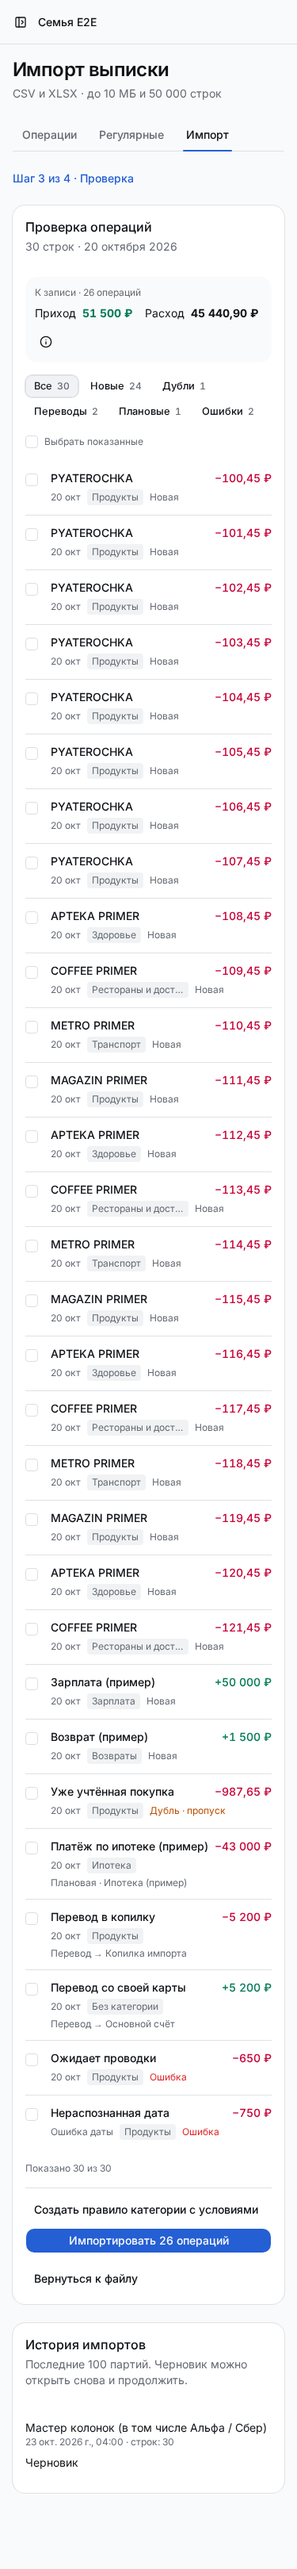
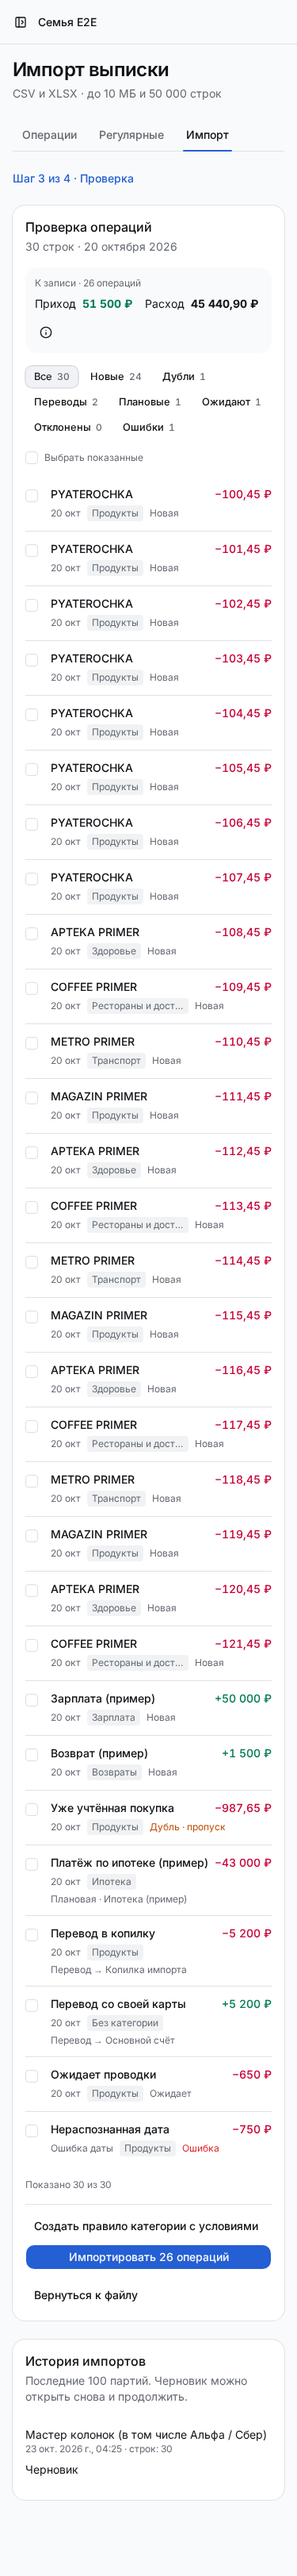
docs: finalize beta.2 statement import showcase

diff --git a/docs/import.md b/docs/import.md
@@ -10,7 +10,7 @@
 4. Укажите формат даты: ISO, DD.MM.YYYY / DD/MM/YYYY или MM/DD/YYYY. Двухзначные годы не поддерживаются: предварительно приведите их к четырёхзначному виду. Типизированные даты Excel читаются с учётом системы 1900/1904; произвольное число не превращается в дату автоматически. Дата проводки при наличии имеет приоритет; обе исходные даты сохраняются.
 5. Сопоставьте каждый счёт из файла со своим счётом. Для строк без названия выберите общий счёт. Последние цифры карты — только подсказка, новые счета не создаются. Валюта движения должна совпадать с валютой счёта; исходная валютная покупка — метаданные, автоматической конвертации нет. Начальный остаток счёта должен относиться к началу импортируемой истории, иначе текущий баланс удвоится.
 6. При необходимости сохраните настройки чтения и колонок новым профилем семьи. В следующий раз выберите его до чтения файла, затем в списке профилей. Привязка счетов проверяется заново. Если в колонке более 100 уникальных значений, мастер показывает первые 100; остальные несопоставленные счета останутся ошибками в предпросмотре.
-7. Проверьте предпросмотр. Есть фильтры **Новые / Дубли / Переводы / Плановые / Ошибки**, массовый пропуск, создание и назначение категории; отображаются по 50 строк, на телефоне — карточки. Общие приходы/расходы показывают движения файла до решений, включая обе стороны переводов и дубли. Это не итог аналитики семьи.
+7. Проверьте предпросмотр. Есть фильтры **Новые / Дубли / Переводы / Плановые / Ожидают / Отклонены / Ошибки**, массовый пропуск, создание и назначение категории; сначала отображаются 100 строк, следующие добавляются кнопкой «Показать ещё 100», на телефоне — карточки. Общие приходы/расходы показывают движения файла до решений, включая обе стороны переводов и дубли. Это не итог аналитики семьи.
 8. Выберите решение для спорных строк. По умолчанию совпадения с ручными операциями (та же сумма на том же счёте в окне ±2 дня) пропускаются. Можно связать их с операцией без создания. Точный повтор файла даёт предупреждение, а перекрывающиеся выгрузки сверяются по мультимножеству fingerprints: две одинаковые покупки законны. Совпадение без стабильного ID можно явно признать отдельной покупкой. Стабильный банковский ID повторно создать нельзя; указывайте в этой колонке только действительно стабильный ID, а не авторизационный код или номер строки.
 9. Для подтверждения плановой операции выберите её кандидат: фактические дата/сумма берутся из выписки. Окно дат (по умолчанию ±3 дня) и допуск суммы настраиваются до предпросмотра; допуск хранится в минорных единицах валюты строки. При нескольких кандидатах строка по умолчанию пропускается до ручного выбора. Плановые переводы сопоставляются в одной валюте: две встречные строки подтверждают одну плановую операцию, с датой списания; при отмене восстанавливается исходный план. Односторонняя выписка тоже может подтвердить такой перевод, а следующая сторона предлагается как уже существующая. Используются уже материализованные плановые операции; дальние виртуальные начисления нужно сначала открыть/материализовать в приложении.
 10. Для своего перевода выберите **Свой перевод** у обеих встречных строк и проверьте их взаимное сопоставление. Противоположные суммы в одной валюте на разных собственных счетах в окне ±2 дня — только кандидат. Будет создана одна операция `transfer`. Если встречная сторона уже есть в базе, её можно явно преобразовать в перевод или связать с уже существующим переводом. Комиссия остаётся отдельным расходом. По одному слову «СБП» перевод своим не считается. Автоматическое сведение валютных сторон банковской выписки не выполняется; явные переводы из экспорта BestBudget сохраняют обе валютные суммы.
@@ -18,7 +18,7 @@
 12. При наличии двух и более последовательных остатков по счёту они сверяются с движениями между ними. Первый остаток — точка отсчёта, а не подтверждение начального баланса. Несходящаяся сверка требует отдельного подтверждения. Остатки без дат/семантики «после операции» нельзя назначать этой колонке. Неупорядоченные движения одного дня могут потребовать ручной проверки. Отсутствие контроля отображается явно.
 13. Нажмите **Подтвердить импорт → Записать операции**. Вся партия записывается атомарно: ошибка не оставляет частично созданных операций. Повтор подтверждения той же партии возвращает уже записанный результат. Если другая партия была записана после предпросмотра, новые совпадения блокируют запись до проверки. При потере соединения откройте партию в истории и проверьте статус.
 
-Банковские строки `pending`, `rejected` и неизвестного статуса остаются в предпросмотре только для пропуска. Собственный экспорт BestBudget — отдельный доверенный контракт: его планы и пропущенные операции восстанавливаются в исходном статусе, без записи в факт; само расписание CSV не содержит, его нужно создать отдельно. В неизвестном профиле отсутствие статуса требует явного выбора «считать строки без статуса завершёнными». Возврат не определяется автоматически только по знаку: категорию дохода выберите сами. Строки с ошибками нужно исправить в файле/настройках и создать новый предпросмотр либо пропустить. Черновики хранят нормализованные строки, но несохранённые изменения решений в браузере при обновлении страницы сбрасываются.
+Банковские холды `pending` показываются серым статусом «Ожидает» с подсказкой «Операция ещё не проведена банком — импортируйте позже»; отклонённые `rejected` — нейтральным статусом «Отклонена». Они остаются только для пропуска и не записываются в факт. Неизвестный статус или неразобранная дата/сумма остаются ошибкой; некорректный холд также требует исправления. Собственный экспорт BestBudget — отдельный доверенный контракт: его планы и пропущенные операции восстанавливаются в исходном статусе, без записи в факт; само расписание CSV не содержит, его нужно создать отдельно. В неизвестном профиле отсутствие статуса требует явного выбора «считать строки без статуса завершёнными». Возврат не определяется автоматически только по знаку: категорию дохода выберите сами. Строки с ошибками нужно исправить в файле/настройках и создать новый предпросмотр либо пропустить. Черновики хранят нормализованные строки, но несохранённые изменения решений в браузере при обновлении страницы сбрасываются.
 
 ## Отмена
 

diff --git a/docs/screenshots/import/README.md b/docs/screenshots/import/README.md
@@ -3,13 +3,13 @@
 Скриншоты из `e2e/imports.spec.ts`, Chromium на production standalone-сборке:
 
 - `import-preview-375.png` — 30 строк карточками, компактный степпер, редактирование через sheet, кнопки без перекрытия FAB; проверяется `document.documentElement.scrollWidth <= innerWidth`.
-- `import-preview-desktop.png` — те же 30 строк в таблице: 24 новые, один дубль, две стороны перевода, одна плановая и две ошибки. Итоги исключают выбранный перевод и пропуски.
-- `import-duplicates-desktop.png` — повтор CSV: 28 дублей / уже учтённых строк, две ошибки, к записи ноль операций.
+- `import-preview-desktop.png` — те же 30 строк в таблице: 24 новые, один дубль, две стороны перевода, одна плановая, один ожидающий проводки холд и одна ошибка. Итоги исключают выбранный перевод и пропуски.
+- `import-duplicates-desktop.png` — повтор CSV: 28 дублей / уже учтённых строк, один холд и одна ошибка, к записи ноль операций.
 
 Данные полностью синтетические: `owner@e2e.test`, PYATEROCHKA и вымышленные покупки/счета/платежи. Кандидаты готовятся только в изолированной базе Playwright на 54330; настоящий `DATABASE_URL` из окружения не используется. Это проверка UI и собственного формата, не приёмка реальной банковской выгрузки.
 
-Браузерный сценарий проходит мастер колонок, фильтры, выбор строк, массовую смену категории/решения, предложение применить категорию к восьми похожим покупкам, диалог правила, мобильный sheet, commit → повтор/дубли → undo. Дополнительные сценарии проверяют XLSX/Origin и показ 205 строк порциями по 100, без изменения категории невыбранных строк. Категория подтверждаемой плановой берётся из существующей операции, даже если банковская подсказка отличается.
+Браузерный сценарий проходит мастер колонок, фильтры, выбор строк, массовую смену категории/решения, предложение применить категорию к восьми похожим покупкам, диалог правила, мобильный sheet, commit → повтор/дубли → undo. Дополнительные сценарии проверяют XLSX/Origin и показ 205 строк порциями по 100, без изменения категории невыбранных строк. Холд показан серым статусом «Ожидает», с пояснением в desktop tooltip и мобильном sheet. Проверяется решение «пропустить» по умолчанию и отсутствие проводки после импорта; некорректная дата остаётся ошибкой даже у холда. Старый черновик с прежним общим предупреждением получает актуальное пояснение. Категория подтверждаемой плановой берётся из существующей операции, даже если банковская подсказка отличается.
 
 Воспроизведение: `npx -y pnpm@10.27.0 test:e2e`; изображения появляются в `work/import-*.png`. Порты 3200/54330 должны быть свободны. Для собственного кеша браузера задайте `PLAYWRIGHT_BROWSERS_PATH` в дисковой временной директории и предварительно выполните `pnpm exec playwright install chromium`.
 
-Локальная проверка 23.10.2026 после rebase на `bc5b2d0` (напоминания + цели + кредиты): `typecheck`, `lint`, `build`, `drizzle-kit check` — успешно; Vitest — 271 тест в 31 файле; Playwright — 15 тестов. Миграция импорта — `0007_statement_import`; миграции main сохранены без изменений. Интеграционные тесты проверяют исключение полного кредитного платежа/его частей и старого черновика, а также однократный учёт перевода в прогрессе цели и его отмену.
+Снимки обновлены 23.10.2026 после rebase релизной ветки на `1de0669` (импорт #8). `typecheck`, `lint`, `build` — успешно; Vitest — 274 теста в 32 файлах; Playwright — 15 тестов. Миграция импорта — `0007_statement_import`; миграции main сохранены без изменений. Интеграционные тесты проверяют исключение полного кредитного платежа/его частей и старого черновика, а также однократный учёт перевода в прогрессе цели и его отмену.

diff --git a/README.md b/README.md
@@ -8,7 +8,7 @@ Self-hosted family finance: planned vs actual spending, recurring payments and c
 [![Release](https://img.shields.io/github/v/release/mambastick/bestbudget?include_prereleases)](https://github.com/mambastick/bestbudget/releases)
 [![License: MIT](https://img.shields.io/badge/License-MIT-blue.svg)](LICENSE)
 
-**Current release target: 1.0.0-beta.2.** The interface is currently in Russian. Detailed docs are currently in Russian.
+**1.0.0-beta.2 (beta).** The interface is currently in Russian. Detailed docs are currently in Russian.
 
 ## Screenshots
 
@@ -39,7 +39,7 @@ Synthetic demo data, light theme. No bank credentials or real family finances.
 - **Multiple currencies:** accounts and transfers with separate debit/credit amounts; household base-currency reports; cached Bank of Russia rates or manual rates for offline installations.
 - **Loans:** mortgages and consumer loans, annuity/differentiated schedules, principal/interest split, prepayments, rate changes, debt reconciliation and credit-card limits.
 - **Savings goals:** account allocations, manual contributions, emergency fund based on spending history, progress forecasts and recurring planned top-ups.
-- **Statement import (pending [PR #8](https://github.com/mambastick/bestbudget/pull/8)):** CSV/XLSX mapping, preview, duplicate checks and batch undo. Bank-specific formats are experimental; PDF is out of scope. See the [import guide on its branch](https://github.com/mambastick/bestbudget/blob/codex/import/docs/import.md).
+- **Statement import:** CSV/XLSX column mapping, preview, duplicate checks, own transfers, planned-payment confirmation, category rules and batch undo. [Import guide](docs/import.md).
 - **Reminders:** opt-in Telegram and Web Push for payments, overdue items, cash gaps and budget overruns; quiet hours and daily digests. [Notifications](docs/notifications.md).
 - **Family and access:** multiple households, one-time invitations, owner/admin/member roles, password login and generic OIDC SSO. System admins manage the installation without access to other households' finances.
 - **Operations:** scheduled PostgreSQL backups, optional S3 upload, Docker Compose and Helm; responsive light/dark UI and installable PWA. PWA does not cache financial pages for offline use.
@@ -112,7 +112,18 @@ See [`.env.example`](.env.example) for the complete list. Optional services can 
 | `AUTH_FORCE_LOCAL_LOGIN` | `false`; emergency password-login recovery |
 | `SMTP_URL`, `SMTP_FROM` | Optional self-service password reset; otherwise an admin resets passwords |
 
-Import documentation currently lives on [PR #8's branch](https://github.com/mambastick/bestbudget/blob/codex/import/docs/import.md).
+## Statement import
+
+Open **Операции → Импорт выписки** (Transactions → Import statement), upload CSV/XLSX and map columns and accounts. Check the preview before posting: identify duplicates and your own transfers, confirm matching planned transactions and choose categories. Save category rules for similar purchases and reusable column profiles for your household.
+
+A batch posts atomically; its history lets you undo unchanged imported transactions and restore confirmed plans. Pending bank holds are skipped until the bank posts them. BestBudget CSV v1 and exported transactions are supported; bank-specific profiles are **experimental** and require preview checks. **PDF is not supported**; save old XLS files as CSV/XLSX first. [Workflow, formats and undo limits](docs/import.md).
+
+<details>
+<summary>Statement import preview</summary>
+
+![Statement preview with duplicate checks, own transfers and planned-payment matches](docs/screenshots/import/import-preview-desktop.png)
+
+</details>
 
 ## Upgrading and backups
 
@@ -172,7 +183,7 @@ Issues and pull requests are welcome. Describe the problem and reproduction step
 
 ## Roadmap
 
-- Complete statement import acceptance and validate bank formats on locally anonymized samples.
+- Validate native profiles for Sber, T-Bank and Alfa-Bank using locally anonymized real statement samples. Current bank formats remain experimental; column mapping is available.
 - Optional IMAP attachments and Android SMS/push **drafts**, with user review before posting.
 - Monitor Russian Open Banking access for self-hosted clients; no direct retail-bank API integration or availability date is promised. See the [banking research](docs/research/bank-integrations-ru.md) and [statement format study](docs/research/statement-formats.md).
 

diff --git a/CHANGELOG.md b/CHANGELOG.md
@@ -28,6 +28,8 @@
 
 - Импорт совместим с кредитами и целями: миграция `0007_statement_import` после кредитов, составные кредитные платежи исключены с объяснением и повторной проверкой при записи, переводы целей подтверждаются без двойного учёта.
 - Анимированные суммы показывают копейки с запятой (`66 115,12 ₽`) в обоих режимах CountUp. Браузерная проверка требует запятую и проверяет видимый текст.
+- Дашборд: компактные действия в заголовках целей/прогноза, полные подписи осей Y, карточка баланса без растяжения под длинный список и читаемые названия категорий на desktop.
+- Банковские холды в импорте показываются нейтральным статусом «Ожидает», отклонённые движения — «Отклонена»; оба состояния остаются пропущенными, ошибки относятся к неразобранным/недопустимым строкам.
 - У целей убран повтор «Без срока»; ось многолетнего графика кредита показывает год, ставки в событиях — десятичную запятую.
 - Совместимость кредитов и целей: сохранены таблицы и расписания целей, оба виджета обзора, общий календарь и прогноз.
 - Обзор предупреждает о недостающих курсах; дата устаревшей текущей оценки показана внутри баланса, исторические публикации не создают баннеров. Даты, склонения и подписи валютных переводов локализованы.
